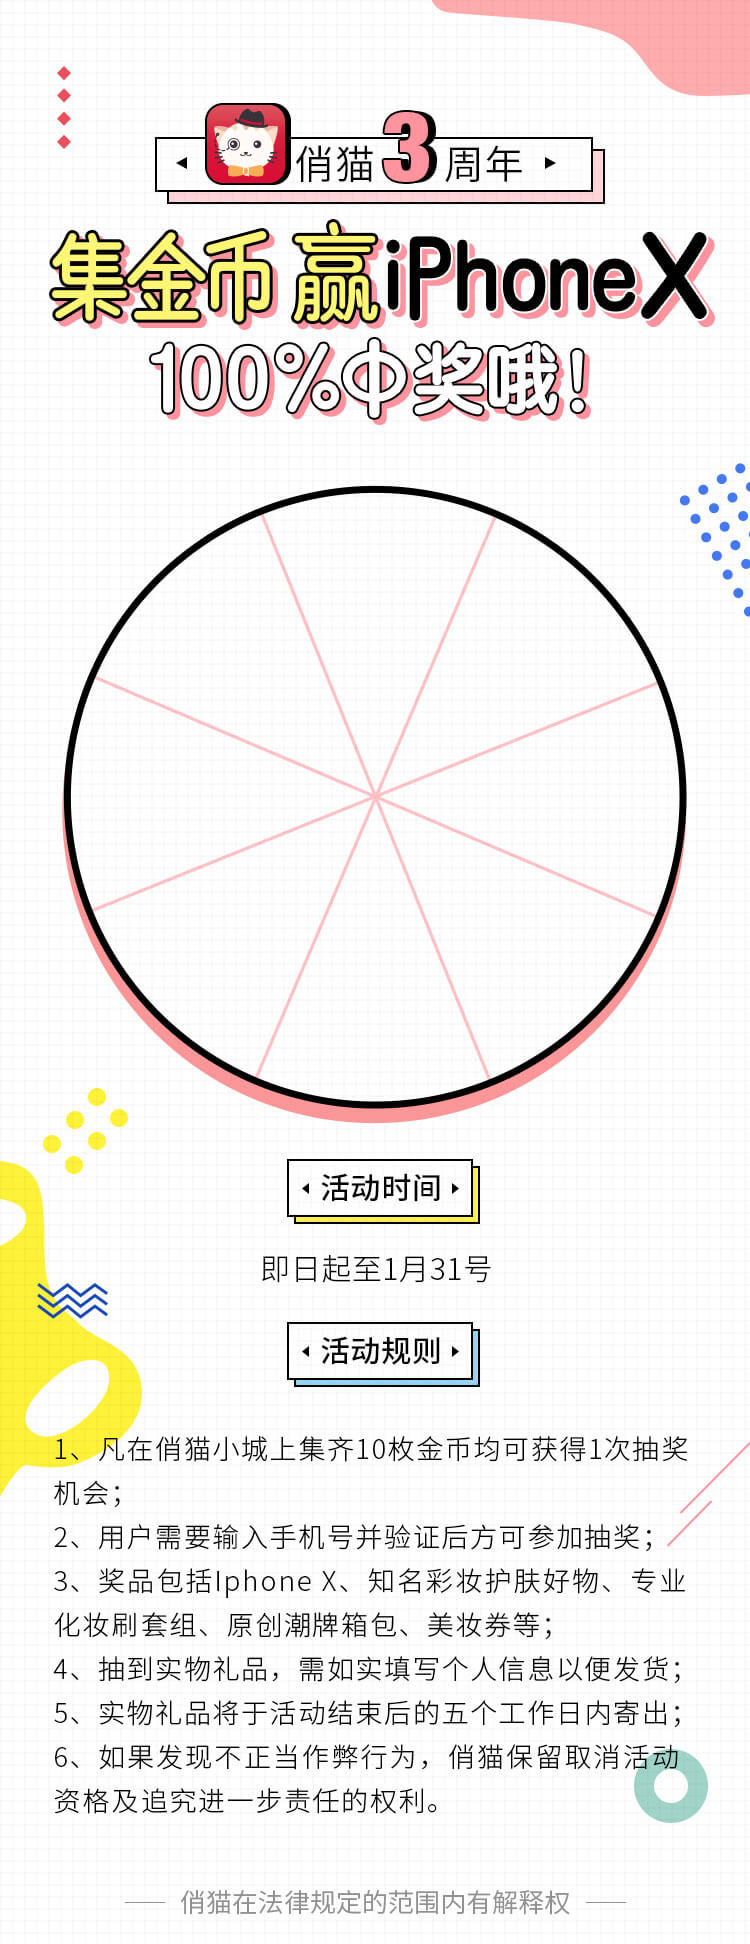
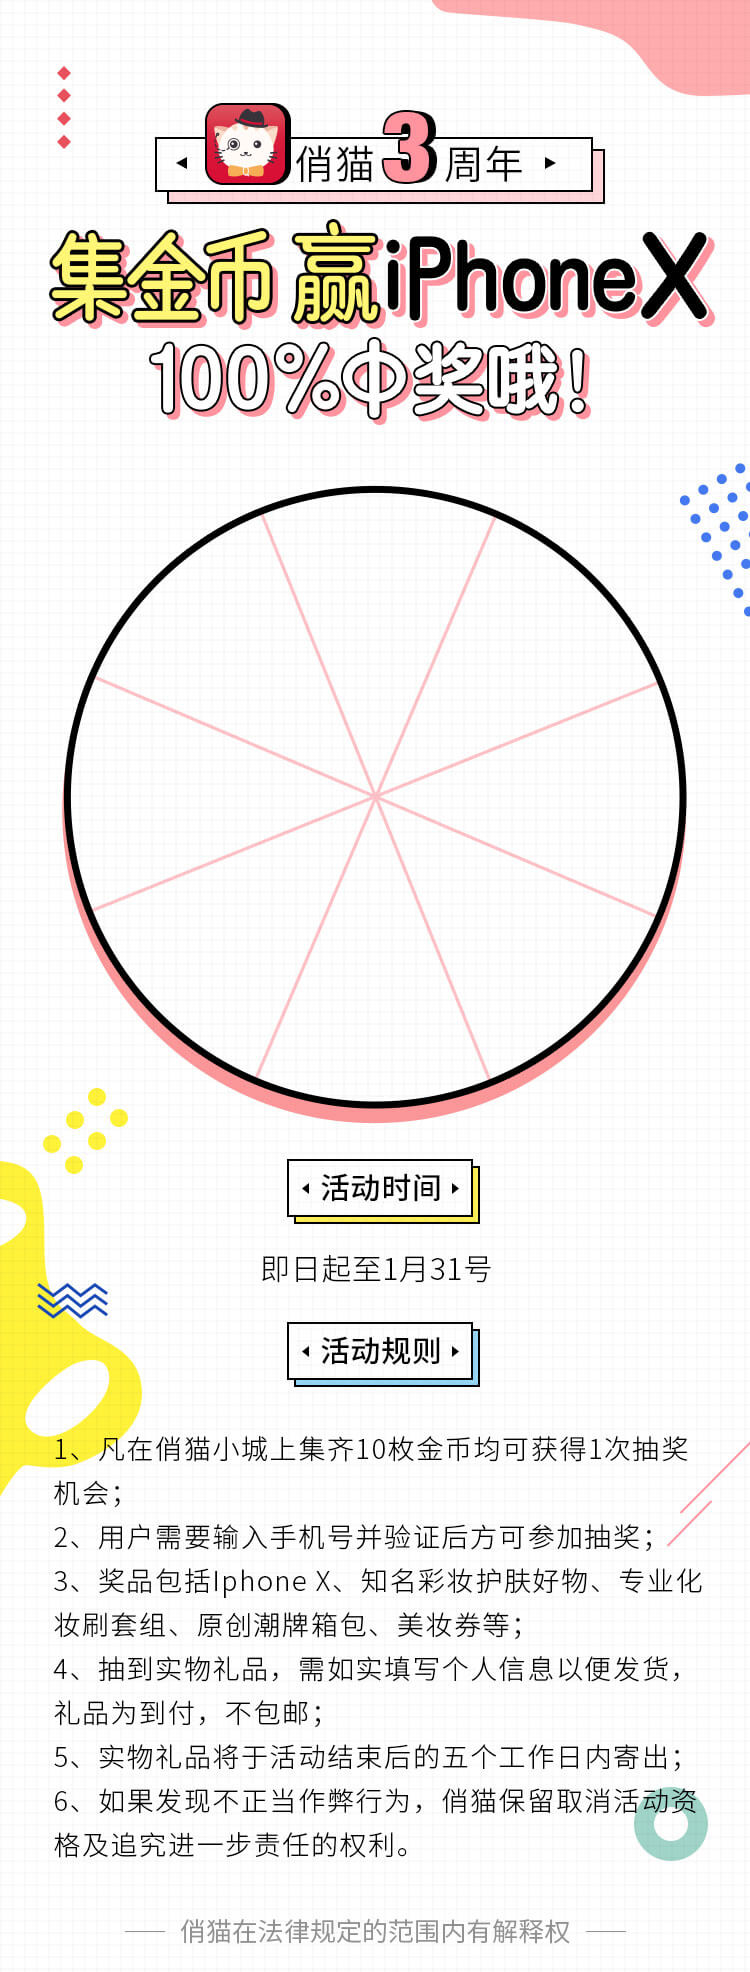
优化调查问卷页面

diff --git a/src/page/topic/beauty_town/receipt_info.vue b/src/page/topic/beauty_town/receipt_info.vue
@@ -1,7 +1,7 @@
 <template>
   <div class="receipt-box">
     <img class="bg-img" src="/static/topic/beauty_down/luckdraw_3/bg_submit.jpg" alt="">
-    <div class="info-box">
+    <div class="info-box" v-if="!resultState">
       <p class="title">填写收货信息</p>
       <div class="info">
         <input type="text" v-model="infoObj.real_name" class="content" placeholder="收货人">
@@ -16,10 +16,24 @@
           <i class="icon-delete" v-show="part_address.length > 0" @click="resetText()"></i>
         </div>
       </div>
-      <p class="tips">我们会在5个工作日将礼品寄给你哦~</p>
+      <p class="tips">我们会在5个工作日内将礼品寄给你，到付不包邮哦~</p>
       <div class="submit" @click="submitInfo">提交</div>
     </div>
+    <!--结果提醒-->
+    <div class="result-box" v-else>
+      <img src="/static/topic/beauty_down/luckdraw_3/submit_success.png" alt="提交成功">
+      <div class="next-box">
+        <span class="next" @click="shareBoxShow = true"></span>
+        <span class="next" @click="goQuestionnaire"></span>
+      </div>
+    </div>
 
+    <!--分享指引-->
+    <div class="share-guide" @click="hideShareBox" v-if="shareBoxShow">
+      <div>
+        <img src="/static/topic/inviteNewUser_2017/guide2.png" alt="">
+      </div>
+    </div>
     <myAddress :showAddressPicker="showAddressPicker" :init="area" @save-address="saveAddress" @hide-picker="hidePicker"></myAddress>
   </div>
 </template>
@@ -43,6 +57,8 @@ export default {
       showAddressPicker: false, // 显示地区选择
       area: '所在地区', // 所在地区
       part_address: '', // 详细地址
+      shareBoxShow: false, // 分享指引
+      resultState: false, // 提交结果显示
     };
   },
   created() {
@@ -76,8 +92,7 @@ export default {
     async setFullAddress(infoObj) {
       let res = await setAddData(infoObj);
       if (res.status == 'ok') {
-        alert('我们会在5个工作日将礼品寄给你哦~');
-        this.$router.push('./luckdraw');
+        this.resultState = true; // 提交成功
       }else{
         alert(res.msg);
         this.$router.push('/topic-beauty-town');
@@ -128,6 +143,15 @@ export default {
       }
 
     },
+
+    /*跳转到调查问卷*/
+    goQuestionnaire() {
+      this.$router.push('./questionnaire');
+    },
+    // 隐藏分享指引
+    hideShareBox (){
+      this.shareBoxShow = false;
+    },
   },
 }
 </script>
@@ -137,7 +161,8 @@ export default {
   .bg-img {
     vertical-align: top;
     width: 100%;
-  } // 收货信息
+  } 
+  // 收货信息
   .info-box {
     position: absolute;
     left: 10%;
@@ -209,7 +234,7 @@ export default {
     .tips {
       font-size: 1.4rem;
       color: #000;
-      line-height: 1.4rem;
+      line-height: 1.5em;
       margin-top: 0.6rem;
     } // 提交
     .submit {
@@ -222,7 +247,59 @@ export default {
       color: #fff;
       cursor: pointer;
       font-size: 1.8rem;
-      margin-top: 3.5rem;
+      margin-top: 3rem;
+    }
+  }
+  // 提交结果
+  .result-box {
+    position: absolute;
+    left: 10%;
+    top: 35%;
+    width: 80%;
+    img {
+      width: 100%;
+      margin-top: 3rem;
+    }
+    // 分享、问卷
+    .next-box {
+      position: absolute;
+      left: 0;
+      bottom: 0.2rem;
+      span.next {
+        display: inline-block;
+        width: 12.5rem;
+        height: 4.4rem;
+        line-height: 4.4rem;
+        font-size: 1.8rem;
+        text-align: center;
+        color: #fff;
+        border-radius: 4rem;
+        cursor: pointer;
+        margin-left: 1rem;
+        &:nth-of-type(2){
+          margin-left: 3rem;
+        }
+      }
+    }
+  }
+
+  // 分享指引
+  .share-guide {
+    position: fixed;
+    left: 0;
+    top: 0;
+    width: 100%;
+    height: 100%;
+    z-index: 99;
+    div {
+      width: 100%;
+      height: 100%;
+      max-width: 750px;
+      margin: 0 auto;
+    }
+    img {
+      width: 100%;
+      height: 100%;
     }
   }
 }

diff --git a/src/page/topic/beauty_town/questionnaire.vue b/src/page/topic/beauty_town/questionnaire.vue
@@ -72,7 +72,8 @@
 <script>
 import { Toast } from 'mint-ui';
 import '../../../../node_modules/mint-ui/lib/toast/style.css';
-import { setQuestionnaire, getMoreDraw } from "@/service/getData"
+import { setQuestionnaire, getMoreDraw } from "@/service/getData";
+import { setStore, getStore } from "../../../common/store";
 export default {
   name: "questionnaire",
   data() {
@@ -82,6 +83,8 @@ export default {
       answer: ["A", "B", "C", "D"],
       index: '0',
       submitBtn: false, // 默认不显示提交答案按钮
+
+      questionnaire: '', // 是否提交过问卷
     };
   },
   mounted(){
@@ -128,24 +131,32 @@ export default {
 
     // 提交问卷答案
     async submitResult(){
-      if(this.answerList.length < 5){
-        Toast({
-          message: '部分题目未选择答案',
-          duration: 1000,
-          className: 'toast-tip'
-        });
-        return
-      }else{
-        let res = await setQuestionnaire({q_key: this.answerList.join(',')});
-        if(res.status == "ok"){
+      this.questionnaire = getStore('questionnaire') ? getStore('questionnaire') : '';
+      if(this.questionnaire == 'ok'){
+        alert('您已提交过问卷，不用重复提交~');
+        this.$router.push('./luckdraw'); // 重新调回到抽奖页面
+      }else{ // 第一次提交问卷
+        if(this.answerList.length < 5){
           Toast({
-            message: '问卷提交成功',
-            duration: 200,
+            message: '部分题目未选择答案',
+            duration: 1000,
             className: 'toast-tip'
           });
+          return
+        }else{
+          let res = await setQuestionnaire({q_key: this.answerList.join(',')});
+          if(res.status == "ok"){
+            setStore('questionnaire', 'ok'); // 记录提交了问卷
+            Toast({
+              message: '问卷提交成功',
+              duration: 200,
+              className: 'toast-tip'
+            });
 
-          this.getMoreLuckdraw('paper');
+            this.getMoreLuckdraw('paper');
+          }
         }
+
       }
     },
 

diff --git a/src/page/topic/beauty_town/base.vue b/src/page/topic/beauty_town/base.vue
@@ -18,6 +18,7 @@
                 if(res.status == 'ok'){
                     // 增加了一次抽奖机会
                     alert("分享成功，已为您增加1次抽奖机会，马上抽奖吧~");
+                    this.$router.push('./luckdraw');
                 }
             },
 
@@ -41,7 +42,10 @@
                     imgUrl: imgUrl,
                     success: function (res) {
                         console.log(1, res);
-                        if(this.$route.path == '/topic-beauty-town/luckdraw'){
+                        if(
+                            this.$route.path == '/topic-beauty-town/luckdraw' || 
+                            this.$route.path == '/topic-beauty-town/receipt'
+                        ){
                             // 微信分享成功回调
                             this.getMoreLuckdraw('share');
                         }
@@ -57,7 +61,10 @@
                     success: function (res) {
                         //todo
                         console.log(2, res);
-                        if(this.$route.path == '/topic-beauty-town/luckdraw'){
+                        if(
+                            this.$route.path == '/topic-beauty-town/luckdraw' || 
+                            this.$route.path == '/topic-beauty-town/receipt'
+                        ){
                             // 微信分享成功回调
                             this.getMoreLuckdraw('share');
                         }
